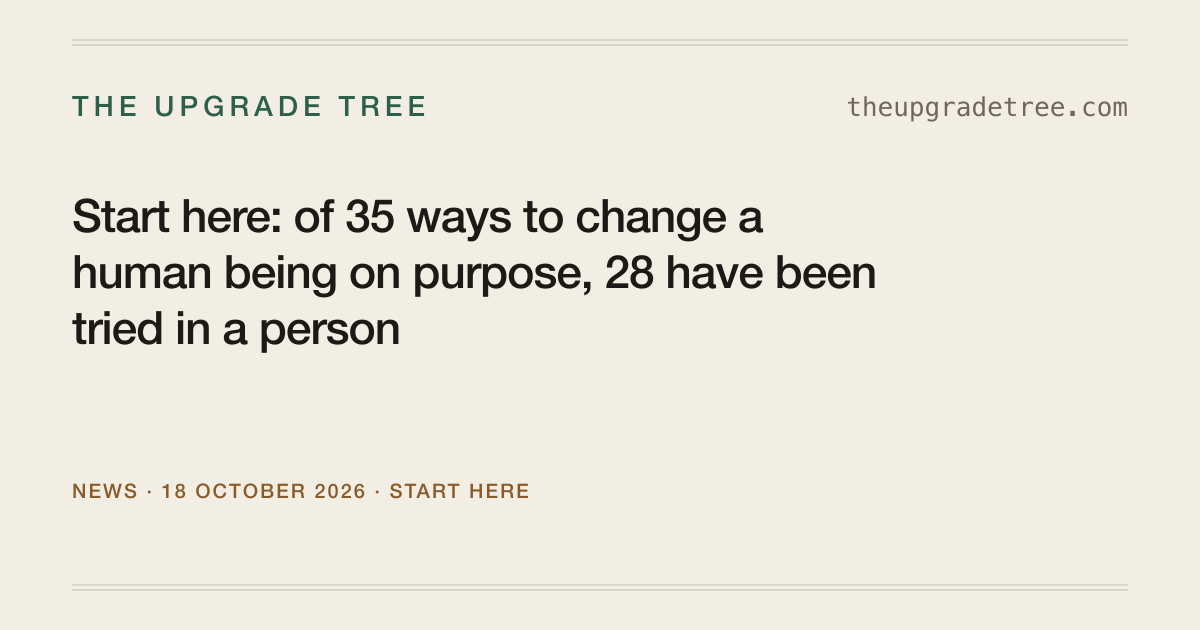
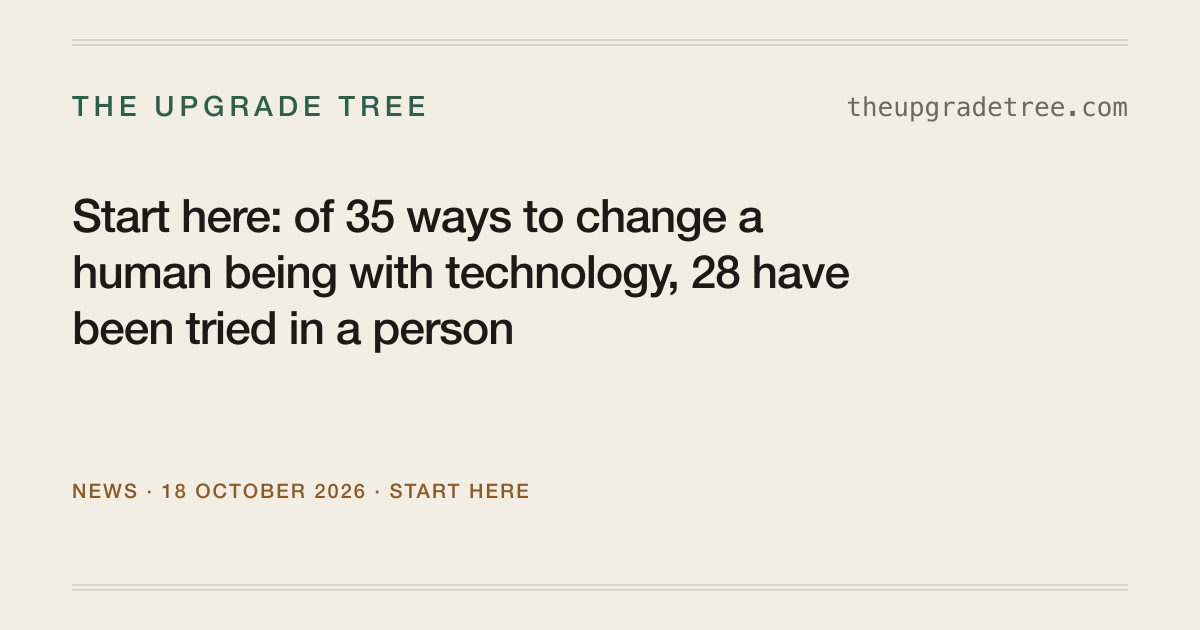
2026-10-21: say "with technology" in place of "on purpose", site wide (John's ruling)
The question, the headline sentence and headline file, the home, method,
claims and branches pages, the layout's description, share-card text,
footer and notice, the README, the rules for the record and the
suggestion form now say "with technology"; where a sentence already names
a device, a drug or a procedure the phrase is dropped. Two upgrade names
shortened (ids unchanged). The share picture is redrawn at a new address,
/social-preview-2026-10-21.png, and the Start-here card's address carries
?v=2026-10-21 so link previews fetch the new ones. Three editorial notes
say "by choice". No count, stage, test or id changed; 28 of 35 stands.

Changed region(s): [[0.0617, 0.3921, 0.74, 0.573]]

diff --git a/site/src/lib/news.ts b/site/src/lib/news.ts
@@ -14,7 +14,7 @@ export const KIND_LABEL: Record<string, string> = {
 };
 
 export const postPath = (p: Post) => `/news/${p.id}/`;
-export const cardPath = (p: Post) => `/news/${p.id}-card.png`;
+export const cardPath = (p: Post) => `/news/${p.id}-card.png${p.data.card_version ? `?v=${p.data.card_version}` : ''}`;
 
 /** Every post, newest first; the opener is excluded unless asked for. */
 export async function allPosts(): Promise<Post[]> {

diff --git a/site/src/content.config.ts b/site/src/content.config.ts
@@ -24,6 +24,8 @@ const news = defineCollection({
     before: z.string().optional(),
     after: z.string().optional(),
     stand_in: z.boolean().default(false),
+    // The day the post's card was last redrawn; it goes into the card's address so link previews fetch the new one.
+    card_version: isoDate.optional(),
   }),
 });
 

diff --git a/scripts/export.py b/scripts/export.py
@@ -1082,7 +1082,7 @@ def export_readings(tree: dict, folder: Path) -> tuple[dict, list[str]]:
 def headline_words(count: int, total: int) -> str:
     """The count in the words the home page uses under it."""
     one = count == 1
-    return (f"{count} of {total} {'way' if one else 'ways'} of changing a human being on purpose "
+    return (f"{count} of {total} {'way' if one else 'ways'} of changing a human being with technology "
             f"{'has' if one else 'have'} been tried in at least one living person")
 
 

diff --git a/site/src/content/news/2026-10-18-start-here.md b/site/src/content/news/2026-10-18-start-here.md
@@ -1,7 +1,8 @@
 ---
-title: "Start here: of 35 ways to change a human being on purpose, 28 have been tried in a person"
+title: "Start here: of 35 ways to change a human being with technology, 28 have been tried in a person"
 date: 2026-10-18
 kind: start-here
+card_version: 2026-10-21
 summary: Some people expect humans to improve themselves with devices, drugs and surgery, and in the end to merge with their machines. This site counts what has actually been done, from the public record, and this post explains where the count stood on 18 October 2026 and how to follow it.
 sources:
   - label: The headline file, the count as it stands
@@ -12,7 +13,7 @@ sources:
 
 One idea about the future says that as machines get smarter, people keep up by joining with them: sharper senses, better memory, a longer life, and in the end a direct line from the brain to a computer. Some of that is already happening, and some of it is only talk. I wanted to know which was which, and it turns out the answer can be written as a list.
 
-The Upgrade Tree is that list, kept in the open. It asks one question: how much of a human being can we change on purpose today? Not in a story, and not someday, but with a device, a drug or a procedure that at least one person has actually had, counted from the public record. Each change is an upgrade on the tree, with a plain statement of what would count as a person having it and the kind of record that settles it, such as a regulator's approval or a peer-reviewed paper (one checked by other scientists before it was published). The site gives no odds on what will happen. It says what has happened, when, and where the record is, so that anyone can check an entry or argue with it.
+The Upgrade Tree is that list, kept in the open. It asks one question: how much of a human being can we change with technology today? Not in a story, and not someday, but with a device, a drug or a procedure that at least one person has actually had, counted from the public record. Each change is an upgrade on the tree, with a plain statement of what would count as a person having it and the kind of record that settles it, such as a regulator's approval or a peer-reviewed paper (one checked by other scientists before it was published). The site gives no odds on what will happen. It says what has happened, when, and where the record is, so that anyone can check an entry or argue with it.
 
 ## Where the Count Stands
 

diff --git a/README.md b/README.md
@@ -1,8 +1,8 @@
 # The Upgrade Tree
 
-How much of a human being can we change on purpose today?
+How much of a human being can we change with technology today?
 
-The Upgrade Tree is a public count. It lists the specific ways a person can be changed on purpose (an implant that gives back some sight, a pill meant to slow ageing, a chip that lets a paralysed person type by thought), sorted under seven branches: senses; movement and body; memory and thinking; mood and drive; lifespan and repair; inheritance; and the link to machines. Each upgrade carries a plain test of what would count as a person having it, the public record that settles that, and a stage on a five-rung ladder: idea only, shown in animals, first human, in clinical use, in wide use. The headline is the count of upgrades that have reached a first human. The second number, how much information can pass between a brain and a computer each second, is watched on the link-to-machines branch.
+The Upgrade Tree is a public count. It lists the specific ways technology can change a person (an implant that gives back some sight, a pill meant to slow ageing, a chip that lets a paralysed person type by thought), sorted under seven branches: senses; movement and body; memory and thinking; mood and drive; lifespan and repair; inheritance; and the link to machines. Each upgrade carries a plain test of what would count as a person having it, the public record that settles that, and a stage on a five-rung ladder: idea only, shown in animals, first human, in clinical use, in wide use. The headline is the count of upgrades that have reached a first human. The second number, how much information can pass between a brain and a computer each second, is watched on the link-to-machines branch.
 
 There are no probabilities. A stage, a date and a record say what has happened; the project does not guess about what will. That is the difference from its sibling, The Belt Equation (beltequation.com), which gives every event odds.
 

diff --git a/CHANGELOG.md b/CHANGELOG.md
@@ -2,6 +2,10 @@
 
 Every change to the record, the stage ladder or the site, with absolute dates. Newest first. The Story page on the site renders this file.
 
+## 2026-10-21
+
+- **The site now asks "How much of a human being can we change with technology today?", in place of "on purpose", as I ruled on 2026-10-21.** "On purpose" is what you say to rule out an accident, which nobody had raised, and it hid the real line the tree draws: between changes made with a device, a drug, a procedure or a machine a person uses, and everything else that changes a person, such as growing up, ageing or school. The headline now reads "ways of changing a human being with technology", and so do the home page, the method page, the claims page, the footer, the link preview and the share picture (redrawn, at a new address, `/social-preview-2026-10-21.png`). Where a sentence already says "a device, a drug or a procedure", the words are simply gone. Two upgrade names are shorter: "A treatment removes a specific fear memory" and "A child is born from a gene-edited embryo"; their addresses are unchanged. The mood branch keeps its condition that a change is one the person chose. No count, stage, test or address moved; the count stays at 28 of 35. The wording proposal is `docs/proposals/2026-10-21-on-purpose-wording.md`.
+
 ## 2026-10-20
 
 - **Five papers this tracker leans on were read in full against the record on 2026-10-20.** No stage moved and the headline count is unchanged at 28 of 35. One point was added to the speed chart, and four entries were made more exact.

diff --git a/docs/proposals/2026-10-21-on-purpose-wording.md b/docs/proposals/2026-10-21-on-purpose-wording.md
@@ -4,7 +4,9 @@ Written 2026-10-21, at John's request: "Can we review the use of the words 'on p
 for the Upgrade Tree project? Something about that just feels off. There has to be a better way to
 say what we are trying to convey for that project."
 
-**This is a proposal. Nothing live has changed.** It lists every public use of the phrase, says why
+**Applied on 2026-10-21.** John ruled the same day: "'with technology' works. Let's go ahead and push that update live site wide." The recommendation below went live in the same pull request; besides it, three editorial notes that said "on purpose" in its ordinary sense now say "by choice". The two upgrade tests that use the words (the wired cursor implant and the fear-memory treatment), the long-shot label and the changelog's past entries are unchanged. The text below is the proposal as written.
+
+~~This is a proposal. Nothing live has changed.~~ It lists every public use of the phrase, says why
 it reads off, sets out four other ways to say it with the headline, home page, definition and
 today's share pair written out for each, and recommends one. John picks; a later session makes the
 change.

diff --git a/site/README.md b/site/README.md
@@ -52,7 +52,7 @@ https://theupgradetree.jfredson.workers.dev serves the same build). Scaffolded 2
 Every page's footer carries the subject notice John ruled on 2026-10-17, one line between the
 attribution line and the family line, in the place and register of Outrunning Ageing's medical
 notice: the site records what has been shown and what has been promised about changing a human
-being on purpose; it recommends nothing, and nothing on it is medical advice.
+being with technology; it recommends nothing, and nothing on it is medical advice.
 
 ## Commands
 

diff --git a/docs/upgrade-schema.md b/docs/upgrade-schema.md
@@ -13,7 +13,7 @@ this folder and in the scripts.
 
 ## What an upgrade is
 
-An upgrade is one specific technology that changes a human being on purpose: a device, a drug,
+An upgrade is one specific technology that changes how a human body or mind works: a device, a drug,
 a procedure or a practice. It has a plain name, a description, a test that says what would count
 as a person having it (so that two readers agree), a source that says who settles that, a place
 on one of the seven branches, and a stage. An upgrade without a test is not an upgrade.

diff --git a/.github/ISSUE_TEMPLATE/missing-upgrade.md b/.github/ISSUE_TEMPLATE/missing-upgrade.md
@@ -1,6 +1,6 @@
 ---
 name: Name a missing upgrade
-about: A way of changing a person on purpose that the tree does not list
+about: A way technology can change a person that the tree does not list
 title: "Missing upgrade: "
 labels: missing-upgrade
 ---
